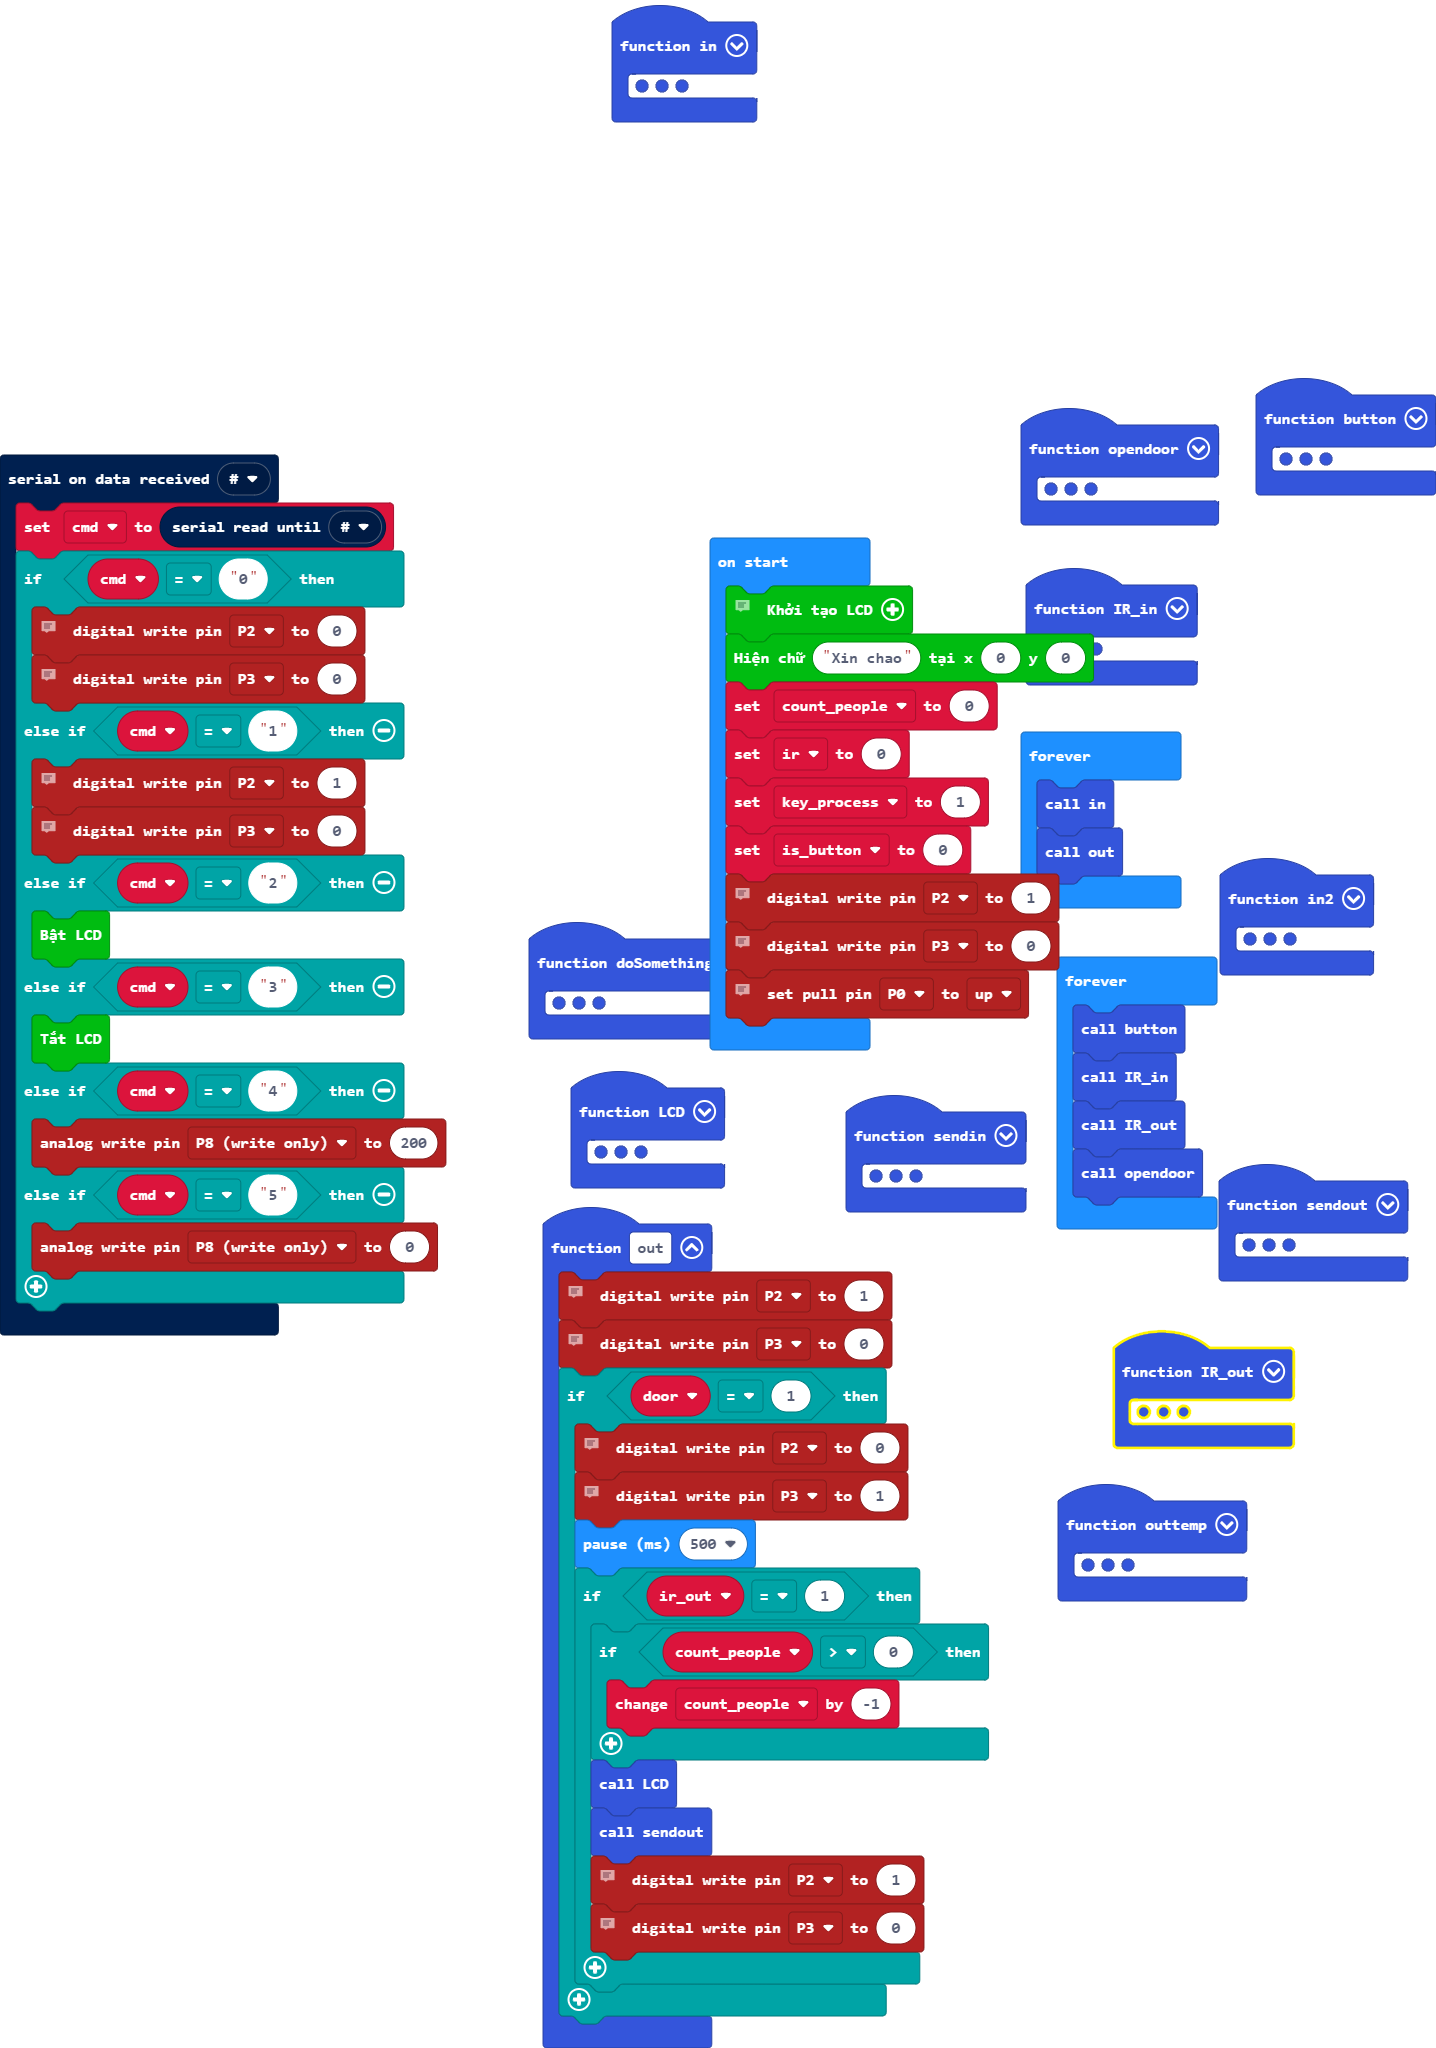
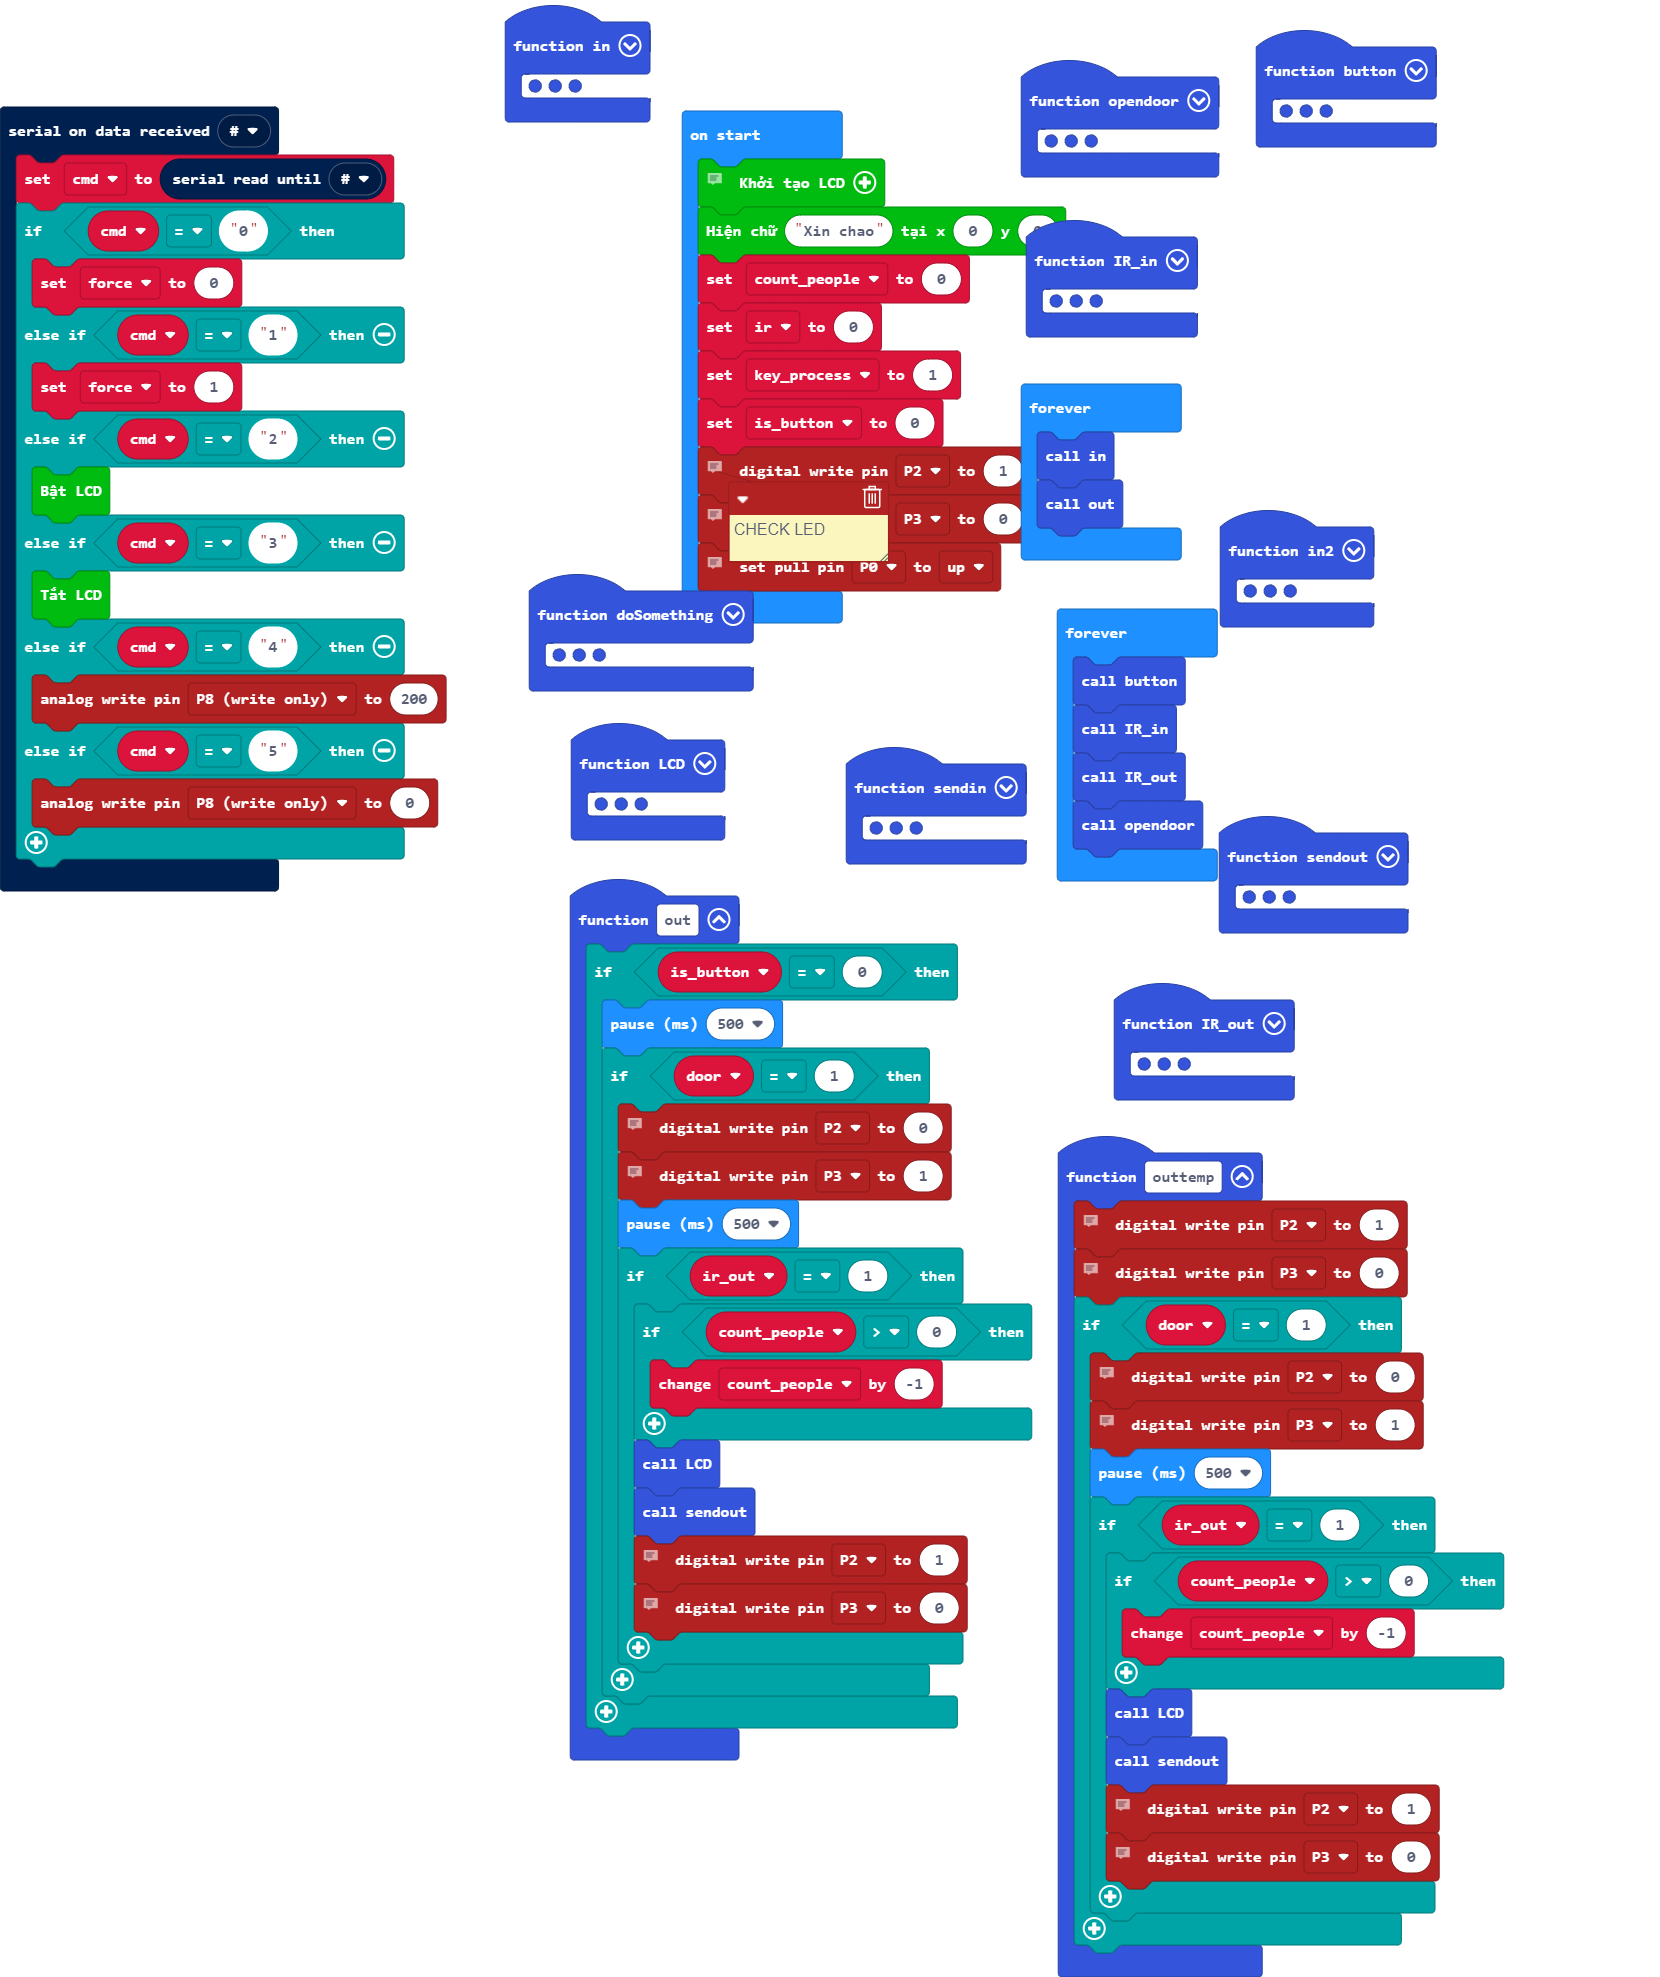
Update main.blocks, main.ts

diff --git a/main.ts b/main.ts
@@ -34,26 +34,26 @@ function in2 () {
     }
 }
 function outtemp () {
-    if (is_button == 0) {
+    // CHECK LED = SERVO
+    pins.digitalWritePin(DigitalPin.P2, 1)
+    // CHECK LED = SERVO
+    pins.digitalWritePin(DigitalPin.P3, 0)
+    if (door == 1) {
         // CHECK LED = SERVO
-        pins.digitalWritePin(DigitalPin.P2, 1)
+        pins.digitalWritePin(DigitalPin.P2, 0)
         // CHECK LED
-        pins.digitalWritePin(DigitalPin.P3, 0)
-        if (door == 1) {
-            // CHECK LED = SERVO
-            pins.digitalWritePin(DigitalPin.P2, 0)
-            // CHECK LED
-            pins.digitalWritePin(DigitalPin.P3, 1)
-            basic.pause(500)
-            if (ir_out == 1) {
+        pins.digitalWritePin(DigitalPin.P3, 1)
+        basic.pause(500)
+        if (ir_out == 1) {
+            if (count_people > 0) {
                 count_people += -1
-                LCD()
-                sendout()
-                // CHECK LED
-                pins.digitalWritePin(DigitalPin.P2, 1)
-                // CHECK LED
-                pins.digitalWritePin(DigitalPin.P3, 0)
             }
+            LCD()
+            sendout()
+            // CHECK LED
+            pins.digitalWritePin(DigitalPin.P2, 1)
+            // CHECK LED
+            pins.digitalWritePin(DigitalPin.P3, 0)
         }
     }
 }
@@ -94,26 +94,25 @@ function sendout () {
     serial.writeString("!1:OUTPEOPLE:1#")
 }
 function out () {
-    // CHECK LED = SERVO
-    pins.digitalWritePin(DigitalPin.P2, 1)
-    // CHECK LED = SERVO
-    pins.digitalWritePin(DigitalPin.P3, 0)
-    if (door == 1) {
-        // CHECK LED = SERVO
-        pins.digitalWritePin(DigitalPin.P2, 0)
-        // CHECK LED
-        pins.digitalWritePin(DigitalPin.P3, 1)
+    if (is_button == 0) {
         basic.pause(500)
-        if (ir_out == 1) {
-            if (count_people > 0) {
-                count_people += -1
+        if (door == 1) {
+            // CHECK LED = SERVO
+            pins.digitalWritePin(DigitalPin.P2, 0)
+            // CHECK LED
+            pins.digitalWritePin(DigitalPin.P3, 1)
+            basic.pause(500)
+            if (ir_out == 1) {
+                if (count_people > 0) {
+                    count_people += -1
+                }
+                LCD()
+                sendout()
+                // CHECK LED
+                pins.digitalWritePin(DigitalPin.P2, 1)
+                // CHECK LED
+                pins.digitalWritePin(DigitalPin.P3, 0)
             }
-            LCD()
-            sendout()
-            // CHECK LED
-            pins.digitalWritePin(DigitalPin.P2, 1)
-            // CHECK LED
-            pins.digitalWritePin(DigitalPin.P3, 0)
         }
     }
 }
@@ -127,15 +126,9 @@ function IR_in () {
 serial.onDataReceived(serial.delimiters(Delimiters.Hash), function () {
     cmd = serial.readUntil(serial.delimiters(Delimiters.Hash))
     if (cmd == "0") {
-        // CHECK LED
-        pins.digitalWritePin(DigitalPin.P2, 0)
-        // CHECK LED
-        pins.digitalWritePin(DigitalPin.P3, 0)
+        force = 0
     } else if (cmd == "1") {
-        // CHECK LED
-        pins.digitalWritePin(DigitalPin.P2, 1)
-        // CHECK LED
-        pins.digitalWritePin(DigitalPin.P3, 0)
+        force = 1
     } else if (cmd == "2") {
         NPNLCD.on()
     } else if (cmd == "3") {
@@ -151,30 +144,32 @@ function sendin () {
     serial.writeString("!1:INPEOPLE:1#")
 }
 function _in () {
-    if (count_people < 3 && is_button == 1) {
-        // CHECK LED
-        pins.digitalWritePin(DigitalPin.P2, 0)
-        // CHECK LED
-        pins.digitalWritePin(DigitalPin.P3, 1)
-        basic.pause(500)
-        if (door == 1) {
+    if (force == 0) {
+        if (count_people < 3 && is_button == 1) {
+            // CHECK LED
+            pins.digitalWritePin(DigitalPin.P2, 0)
+            // CHECK LED
+            pins.digitalWritePin(DigitalPin.P3, 1)
             basic.pause(500)
-            if (ir == 1) {
-                count_people += 1
-                sendin()
-                LCD()
-                // CHECK LED
-                pins.digitalWritePin(DigitalPin.P2, 1)
-                // CHECK LED
-                pins.digitalWritePin(DigitalPin.P3, 0)
-                is_button = 0
+            if (door == 1) {
+                basic.pause(500)
+                if (ir == 1) {
+                    count_people += 1
+                    sendin()
+                    LCD()
+                    // CHECK LED
+                    pins.digitalWritePin(DigitalPin.P2, 1)
+                    // CHECK LED
+                    pins.digitalWritePin(DigitalPin.P3, 0)
+                    is_button = 0
+                }
             }
+        } else if (count_people == 3 && is_button == 1) {
+            pins.analogWritePin(AnalogPin.P8, 776)
+            basic.pause(1000)
+            pins.analogWritePin(AnalogPin.P8, 0)
+            is_button = 0
         }
-    } else if (count_people == 3 && is_button == 1) {
-        pins.analogWritePin(AnalogPin.P8, 776)
-        basic.pause(1000)
-        pins.analogWritePin(AnalogPin.P8, 0)
-        is_button = 0
     }
 }
 function IR_out () {
@@ -184,6 +179,7 @@ function IR_out () {
         ir_out = 0
     }
 }
+let force = 0
 let cmd = ""
 let time_out = 0
 let key0 = 0
